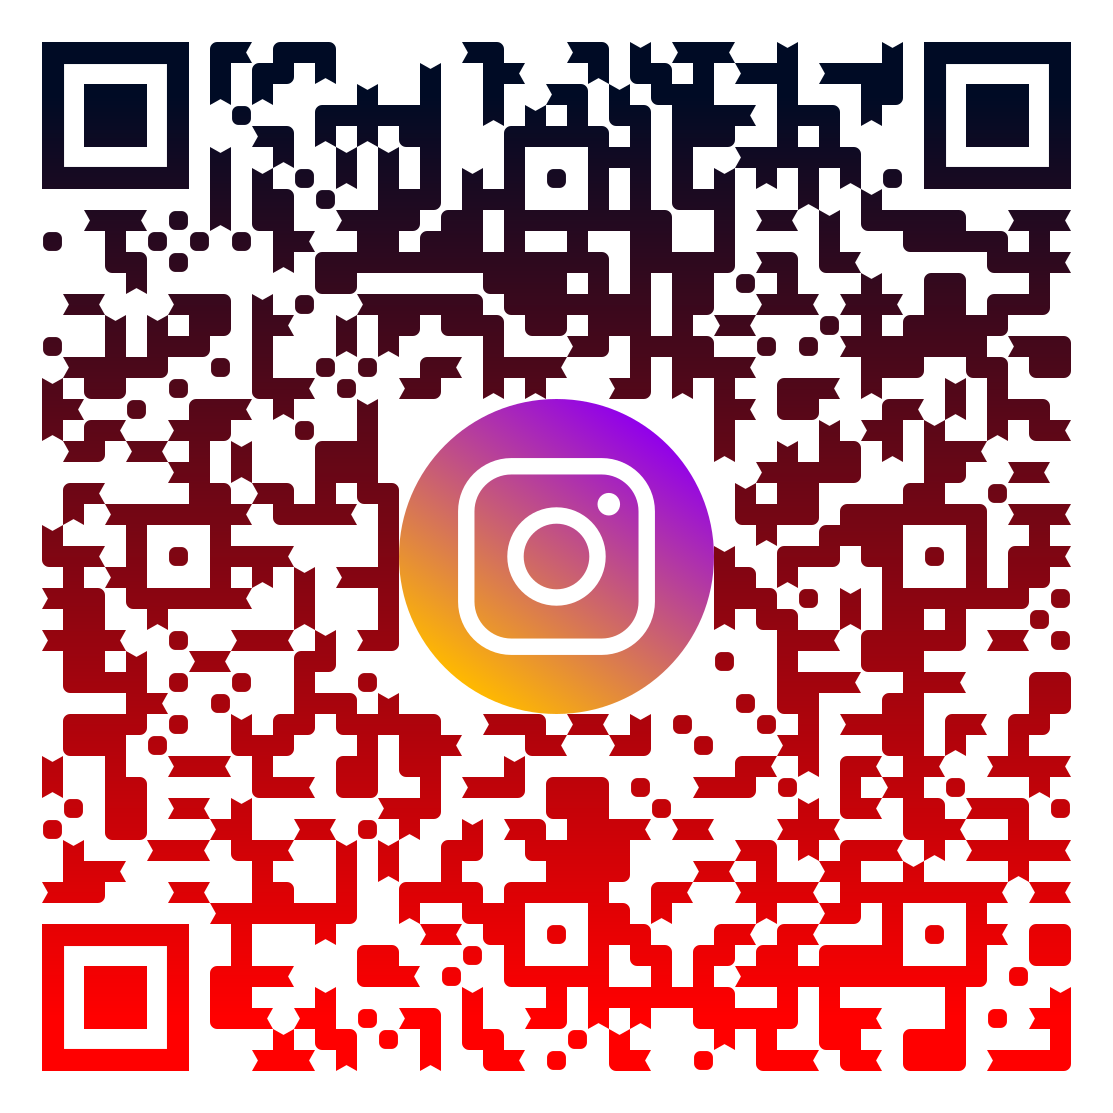
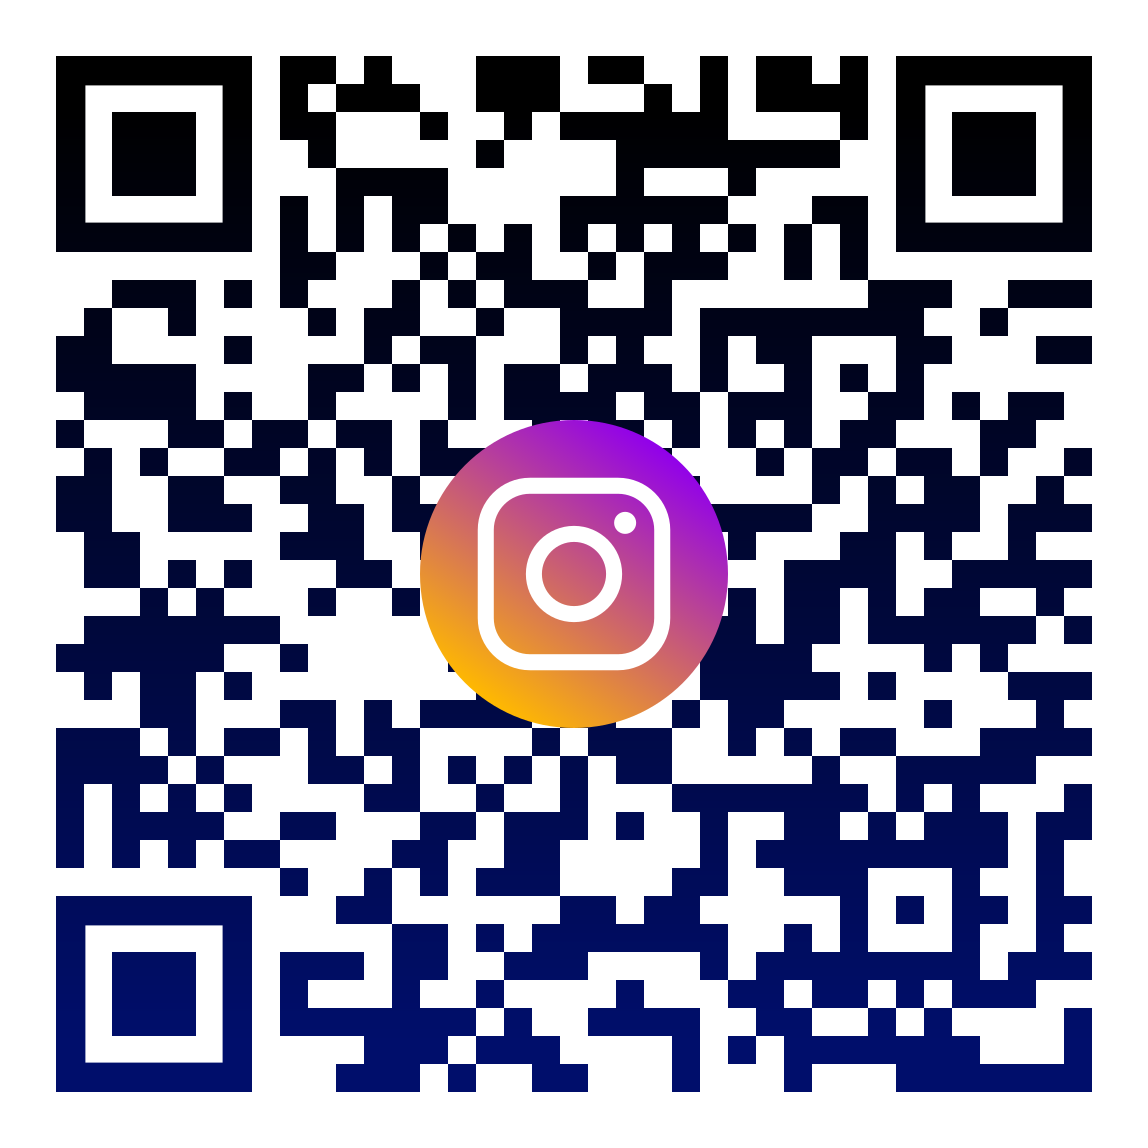
Updated Reposive V2

diff --git a/src/App.jsx b/src/App.jsx
@@ -1,4 +1,4 @@
-import React, { useState, useEffect } from "react";
+import React, { useState, useEffect, useRef } from "react";
 import { Footer } from "./components/Footer";
 import { Contacts } from "./components/Contacts";
 import { fleetData, servicesData } from "./components/servicesData";
@@ -16,17 +16,18 @@ import {
   Bus,
   Car,
   Truck,
+  ChevronLeft,
 } from "lucide-react";
+import DestinationsFlow from "./components/DestinationsFlow";
 // --- Header ---
 const Header = () => {
   const [isMenuOpen, setIsMenuOpen] = useState(false);
 
   const navLinks = [
     { href: "#services", label: "Services" },
-        { href: "#destination", label: "Destinations" },
-
     { href: "#fleet", label: "Our Fleet" },
     { href: "#contact", label: "Contact" },
+    { href: "#destination", label: "Destinations" },
   ];
 
   return (
@@ -275,90 +276,7 @@ const LayeredHero = ({ backgroundImage, foregroundImage }) => {
   );
 };
 
- const DestinationsFlow = () => {
-  const destinations = [
-    {
-      title: "Munnar Hills",
-      description: "Lush green hills and tea plantations.",
-      image: "./destination3.jpg",  
-    },
-    {
-      title: "Alleppey Houseboats",
-      description: "Cruise through the serene backwaters.",
-      image: "./destination1.jpg",
-    },
-    {
-      title: "Athirappilly Waterfalls",
-      description: "Majestic waterfalls amidst nature.",
-      image: "./destination4.jpg",
-    },
-    {
-      title: "Wayanad",
-      description: "Misty mountains and wildlife sanctuaries.",
-      image: "./destination2.jpg",
-    },
-    {
-      title: "Kumarakom",
-      description: "Serene backwaters and scenic resorts.",
-      image: "./destination5.jpg",
-    },
-  ];
-
-  // Step heights create a staircase: up-up-up-up-reset
-  const stepHeights = [0, 40, 80, 40, 0]; // increase this for steeper stairs
-
-  return (
-    <section
-      id="destinations"
-      className="relative mx-auto bg-gradient-to-b from-white to-orange-50 " // taller section
-    >
-      <div className=" flex flex-col align-center justify-center text-center">
-         <span
-            className="px-6 block text-3xl md:text-4xl text-orange-400 mb-3 mt-6"
-            style={{ fontFamily: "Mea Culpa, cursive" }}
-          >
-            Make it memorable
-
-          </span>
-        <h2
-          className=" text-4xl md:text-5xl font-extrabold text-center text-black mb-12"
-          style={{ fontFamily: "'Playfair Display', serif" }}
-        >
-          Popular Destinations in Kerala
-        </h2>
-
-        {/* Flow section */}
-        <div className="relative flex mx-auto pb-10 scrollbar-hide ">
-          {destinations.map((dest, index) => {
-            const offset = stepHeights[index % stepHeights.length];
-            return (
-              <div
-                key={dest.title}
-                className="relative  w-66 h-96 mx-2 overflow-hidden  shadow-lg hover:scale-105 transition-transform duration-500"
-                style={{
-                  marginTop: `${offset}px`, // natural step instead of transform
-                }}
-              >
-                <img
-                  src={dest.image}
-                  alt={dest.title}
-                  className="w-full h-full object-cover brightness-75"
-                />
-                <div className="absolute inset-0 bg-gradient-to-t from-black/70 via-transparent to-transparent"></div>
-                <div className="absolute bottom-6 left-0 w-full text-center px-4">
-                  <h3 className="text-xl font-bold text-white">{dest.title}</h3>
-                  <p className="text-sm text-gray-200 mt-1">{dest.description}</p>
-                </div>
-              </div>
-            );
-          })}
-        </div>
-      </div>
-    </section>
-  );
-};
-
-
+ 
 
 // --- Services Section ---
 const Services = () => (
@@ -558,46 +476,63 @@ const Fleet = () => {
   ];
 
   return (
-    <section id="fleet" className="py-20 mx-auto bg-gradient-to-b from-white to-orange-50">
-      <div className=" mx-auto  text-center">
+    <section
+      id="fleet"
+      className="md:py-20 bg-gradient-to-b from-white to-orange-50"
+    >
+      <div className="mx-auto text-center">
+        {/* Heading */}
         <h2
-          className="text-4xl md:text-5xl font-extrabold text-orange-600 mb-4"
+          className="mt-10 text-3xl md:text-5xl font-extrabold text-orange-600 mb-4"
           style={{ fontFamily: "'Playfair Display', serif" }}
         >
           Our Vehicle Fleet
         </h2>
-        <p className="text-lg md:text-xl text-gray-600 mb-12">
+        <p className="text-base md:text-xl text-gray-600 mb-10">
           Choose from our range of modern, well-maintained vehicles for every travel need.
         </p>
 
         {/* Horizontal Scroll Section */}
-        <div className="flex    pb-6 mx-auto snap-x snap-mandatory scrollbar-thin scrollbar-thumb-orange-300 scrollbar-track-orange-100">
+        <div
+          className="
+            flex gap-6 md:gap-8 
+            overflow-x-auto overflow-y-hidden 
+            scrollbar-thin scrollbar-thumb-orange-400 scrollbar-track-orange-100
+            snap-x snap-mandatory
+            pb-6 px-4  md:px-10
+             md:mx-0
+          "
+        >
           {fleet.map((item) => (
             <div
               key={item.title}
-              className="snap-start mx-auto   w-80 bg-white border border-orange-100 rounded-3xl overflow-hidden shadow-lg hover:shadow-2xl transition-all duration-500 transform hover:-translate-y-2 hover:scale-[1.02]"
+              className="
+                snap-start flex-shrink-0
+                w-64 sm:w-72 md:w-80
+                bg-white border border-orange-100 rounded-3xl
+                overflow-hidden shadow-lg hover:shadow-2xl
+                transition-all duration-500
+                transform hover:-translate-y-2 hover:scale-[1.02]
+              "
             >
-              {/* Image Section */}
-              <div className="relative h-56 bg-gradient-to-b from-orange-100 to-orange-200 flex items-center justify-center">
+              {/* Image */}
+              <div className="relative h-44 md:h-56 bg-gradient-to-b from-orange-100 to-orange-200 flex items-center justify-center">
                 <img
                   src={item.icon}
                   alt={item.title}
-                  className="h-36 object-contain drop-shadow-lg transition-transform duration-500 hover:scale-105"
+                  className="h-28 md:h-36 object-contain drop-shadow-lg transition-transform duration-500 hover:scale-105"
                 />
-                <div className="absolute bottom-2 right-3 bg-orange-600 text-white text-xs font-semibold px-3 py-1 rounded-full shadow-md">
+                <div className="absolute bottom-2 right-3 bg-orange-600 text-white text-xs md:text-sm font-semibold px-3 py-1 rounded-full shadow-md">
                   {item.capacity}
                 </div>
               </div>
 
-              {/* Text Content */}
-              <div className="p-6 text-left">
-                <h3 className="text-2xl font-bold text-gray-900 mb-2 flex items-center justify-between">
+              {/* Text */}
+              <div className="p-5 md:p-6 text-left">
+                <h3 className="text-xl md:text-2xl font-bold text-gray-900 mb-2">
                   {item.title}
-                  {/* <span className="text-orange-500 text-sm font-semibold">
-                    Capacity: {item.capacity}
-                  </span> */}
                 </h3>
-                <p className="text-gray-700 leading-relaxed text-[15px]">
+                <p className="text-gray-700 leading-relaxed text-sm md:text-base">
                   {item.desc}
                 </p>
               </div>
@@ -605,7 +540,7 @@ const Fleet = () => {
           ))}
         </div>
 
-        {/* Scroll hint for mobile */}
+        {/* Scroll hint (mobile only) */}
         <p className="text-sm text-gray-400 mt-4 md:hidden animate-pulse">
           ← Swipe to explore more vehicles →
         </p>
@@ -613,6 +548,8 @@ const Fleet = () => {
     </section>
   );
 };
+
+
 
 
 // --- Main App ---

diff --git a/src/components/DestinationsFlow.jsx b/src/components/DestinationsFlow.jsx
@@ -1,0 +1,127 @@
+import { useRef } from "react";
+import { ChevronLeft, ChevronRight } from "lucide-react";
+
+const DestinationsFlow = () => {
+  const scrollRef = useRef(null);
+
+  const destinations = [
+    {
+      title: "Munnar Hills",
+      description: "Lush green hills and tea plantations.",
+      image: "./destination3.jpg",
+    },
+    {
+      title: "Alleppey Houseboats",
+      description: "Cruise through the serene backwaters.",
+      image: "./destination1.jpg",
+    },
+    {
+      title: "Athirappilly Waterfalls",
+      description: "Majestic waterfalls amidst nature.",
+      image: "./destination4.jpg",
+    },
+    {
+      title: "Wayanad",
+      description: "Misty mountains and wildlife sanctuaries.",
+      image: "./destination2.jpg",
+    },
+    {
+      title: "Kumarakom",
+      description: "Serene backwaters and scenic resorts.",
+      image: "./destination5.jpg",
+    },
+  ];
+
+  const stepHeights = [0, 40, 80, 40, 0];
+
+  // Scroll button handlers
+  const scrollLeft = () => {
+    scrollRef.current.scrollBy({ left: -300, behavior: "smooth" });
+  };
+  const scrollRight = () => {
+    scrollRef.current.scrollBy({ left: 300, behavior: "smooth" });
+  };
+
+  return (
+    <section
+      id="destinations"
+      className="relative mx-auto bg-gradient-to-b from-white to-orange-50  overflow-hidden"
+    >
+      <div className="flex flex-col items-center justify-center text-center">
+        <span
+          className="px-6 block text-3xl md:text-4xl text-orange-400 mb-3 mt-6"
+          style={{ fontFamily: "Mea Culpa, cursive" }}
+        >
+          Make it memorable
+        </span>
+
+        <h2
+          className="text-4xl md:text-5xl font-extrabold text-black mb-12"
+          style={{ fontFamily: "'Playfair Display', serif" }}
+        >
+          Popular Destinations in Kerala
+        </h2>
+
+        {/* Scrollable Flow Section */}
+        <div className="relative w-full ">
+          {/* Left Scroll Button */}
+          <button
+            onClick={scrollLeft}
+            className="md:hidden lg:hidden absolute left-2 top-1/2 -translate-y-1/2 z-20 bg-orange-400 text-white p-3 rounded-full shadow-lg hover:bg-orange-500 transition hidden sm:block"
+          >
+            <ChevronLeft className="h-5 w-5" />
+          </button>
+
+          {/* Scrollable Cards */}
+          <div
+            ref={scrollRef}
+            className="relative flex overflow-x-auto gap-2 pb-6 px-6 snap-x snap-mandatory scrollbar-hide scroll-smooth"
+          >
+            {destinations.map((dest, index) => {
+              const offset = stepHeights[index % stepHeights.length];
+              return (
+                <div
+                  key={dest.title}
+                  className="relative flex-shrink-0 snap-start w-64 sm:w-72 h-96 mx-auto overflow-hidden rounded-2xl shadow-lg hover:scale-105 transition-transform duration-500"
+                  style={{
+                    marginTop: `${offset}px`,
+                  }}
+                >
+                  <img
+                    src={dest.image}
+                    alt={dest.title}
+                    className="w-full h-full object-cover brightness-75"
+                  />
+                  <div className="absolute inset-0 bg-gradient-to-t from-black/70 via-transparent to-transparent"></div>
+                  <div className="absolute bottom-6 left-0 w-full text-center px-4">
+                    <h3 className="text-xl font-bold text-white">
+                      {dest.title}
+                    </h3>
+                    <p className="text-sm text-gray-200 mt-1">
+                      {dest.description}
+                    </p>
+                  </div>
+                </div>
+              );
+            })}
+          </div>
+
+          {/* Right Scroll Button */}
+          <button
+            onClick={scrollRight}
+            className="md:hidden lg:hidden absolute right-2 top-1/2 -translate-y-1/2 z-20 bg-orange-400 text-white p-3 rounded-full shadow-lg hover:bg-orange-500 transition hidden sm:block"
+          >
+            <ChevronRight className="h-5 w-5" />
+          </button>
+        </div>
+
+        {/* Mobile Swipe Hint */}
+        <p className="text-sm text-gray-400 mt-6 md:hidden animate-pulse">
+          ← Swipe to explore destinations →
+        </p>
+      </div>
+    </section>
+  );
+};
+
+export default DestinationsFlow;

diff --git a/src/components/Contacts.jsx b/src/components/Contacts.jsx
@@ -70,9 +70,9 @@ export const Contacts = () => (
             </a>
           </div>
           <div className="text-sm text-gray-400 space-y-1">
-            <p>Facebook: <span className="text-white">Fine Way Travels</span></p>
-            <p>Instagram: <span className="text-white">@fine_way</span></p>
-            <p>YouTube: <span className="text-white">@fine-waytravels</span></p>
+            <p>Facebook: <span className="text-white">Fine-way-Travels</span></p>
+            <p>Instagram: <span className="text-white">@fine__way</span></p>
+            <p>YouTube: <span className="text-white">@fine__waytravels</span></p>
           </div>
         </div>
 
@@ -81,10 +81,10 @@ export const Contacts = () => (
           <h3 className="text-2xl font-semibold text-orange-400">Scan to Connect</h3>
           <p className="text-gray-400">Quickly connect via WhatsApp or follow Instagram.</p>
           <div className="flex space-x-4">
-            <div className="w-32 h-32 bg-gray-100 rounded-lg flex items-center justify-center text-gray-900 text-center p-2 shadow-md">
-              QR for<br/>WhatsApp
+            <div className="w-32 h-32 bg-gray-100 rounded-lg flex items-center justify-center text-gray-900 text-center p-0 shadow-md">
+               <img src="./whatspp_qr.png" alt="QR code for WhatsApp" />
             </div>
-            <div className="w-32 h-32 bg-gray-100 rounded-lg flex items-center justify-center text-gray-900 text-center p-2 shadow-md">
+            <div className="w-32 h-32 bg-gray-100 rounded-lg flex items-center justify-center text-gray-900 text-center p-0 shadow-md">
               <img src="./insta_qr.png" alt="QR code for Instagram" />
             </div>
           </div>
